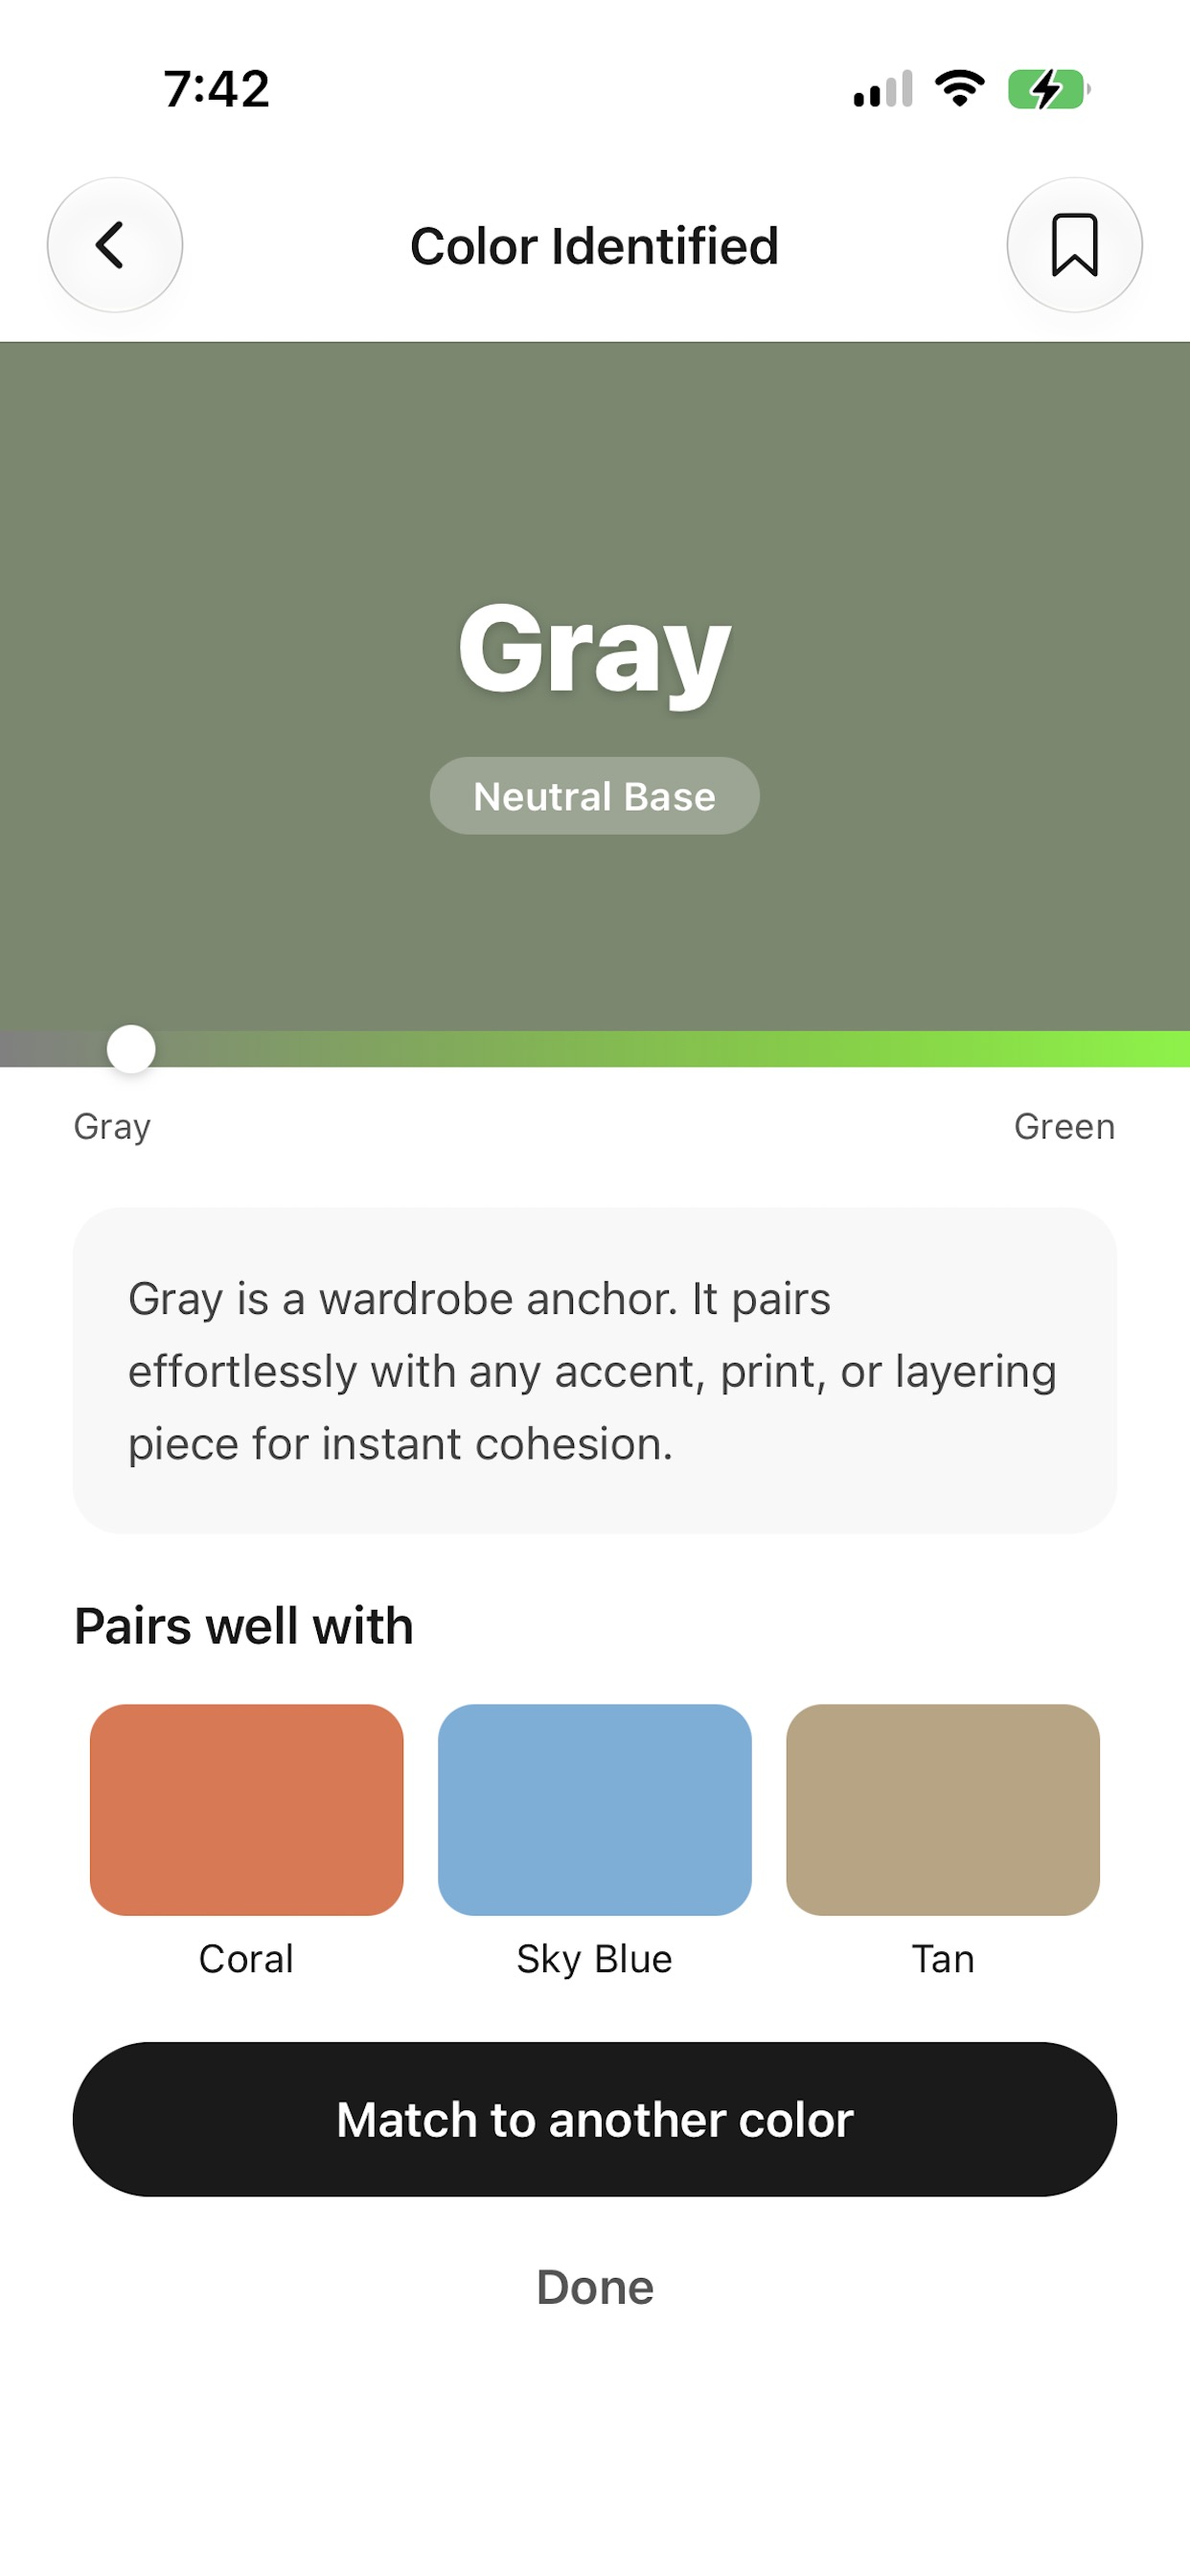
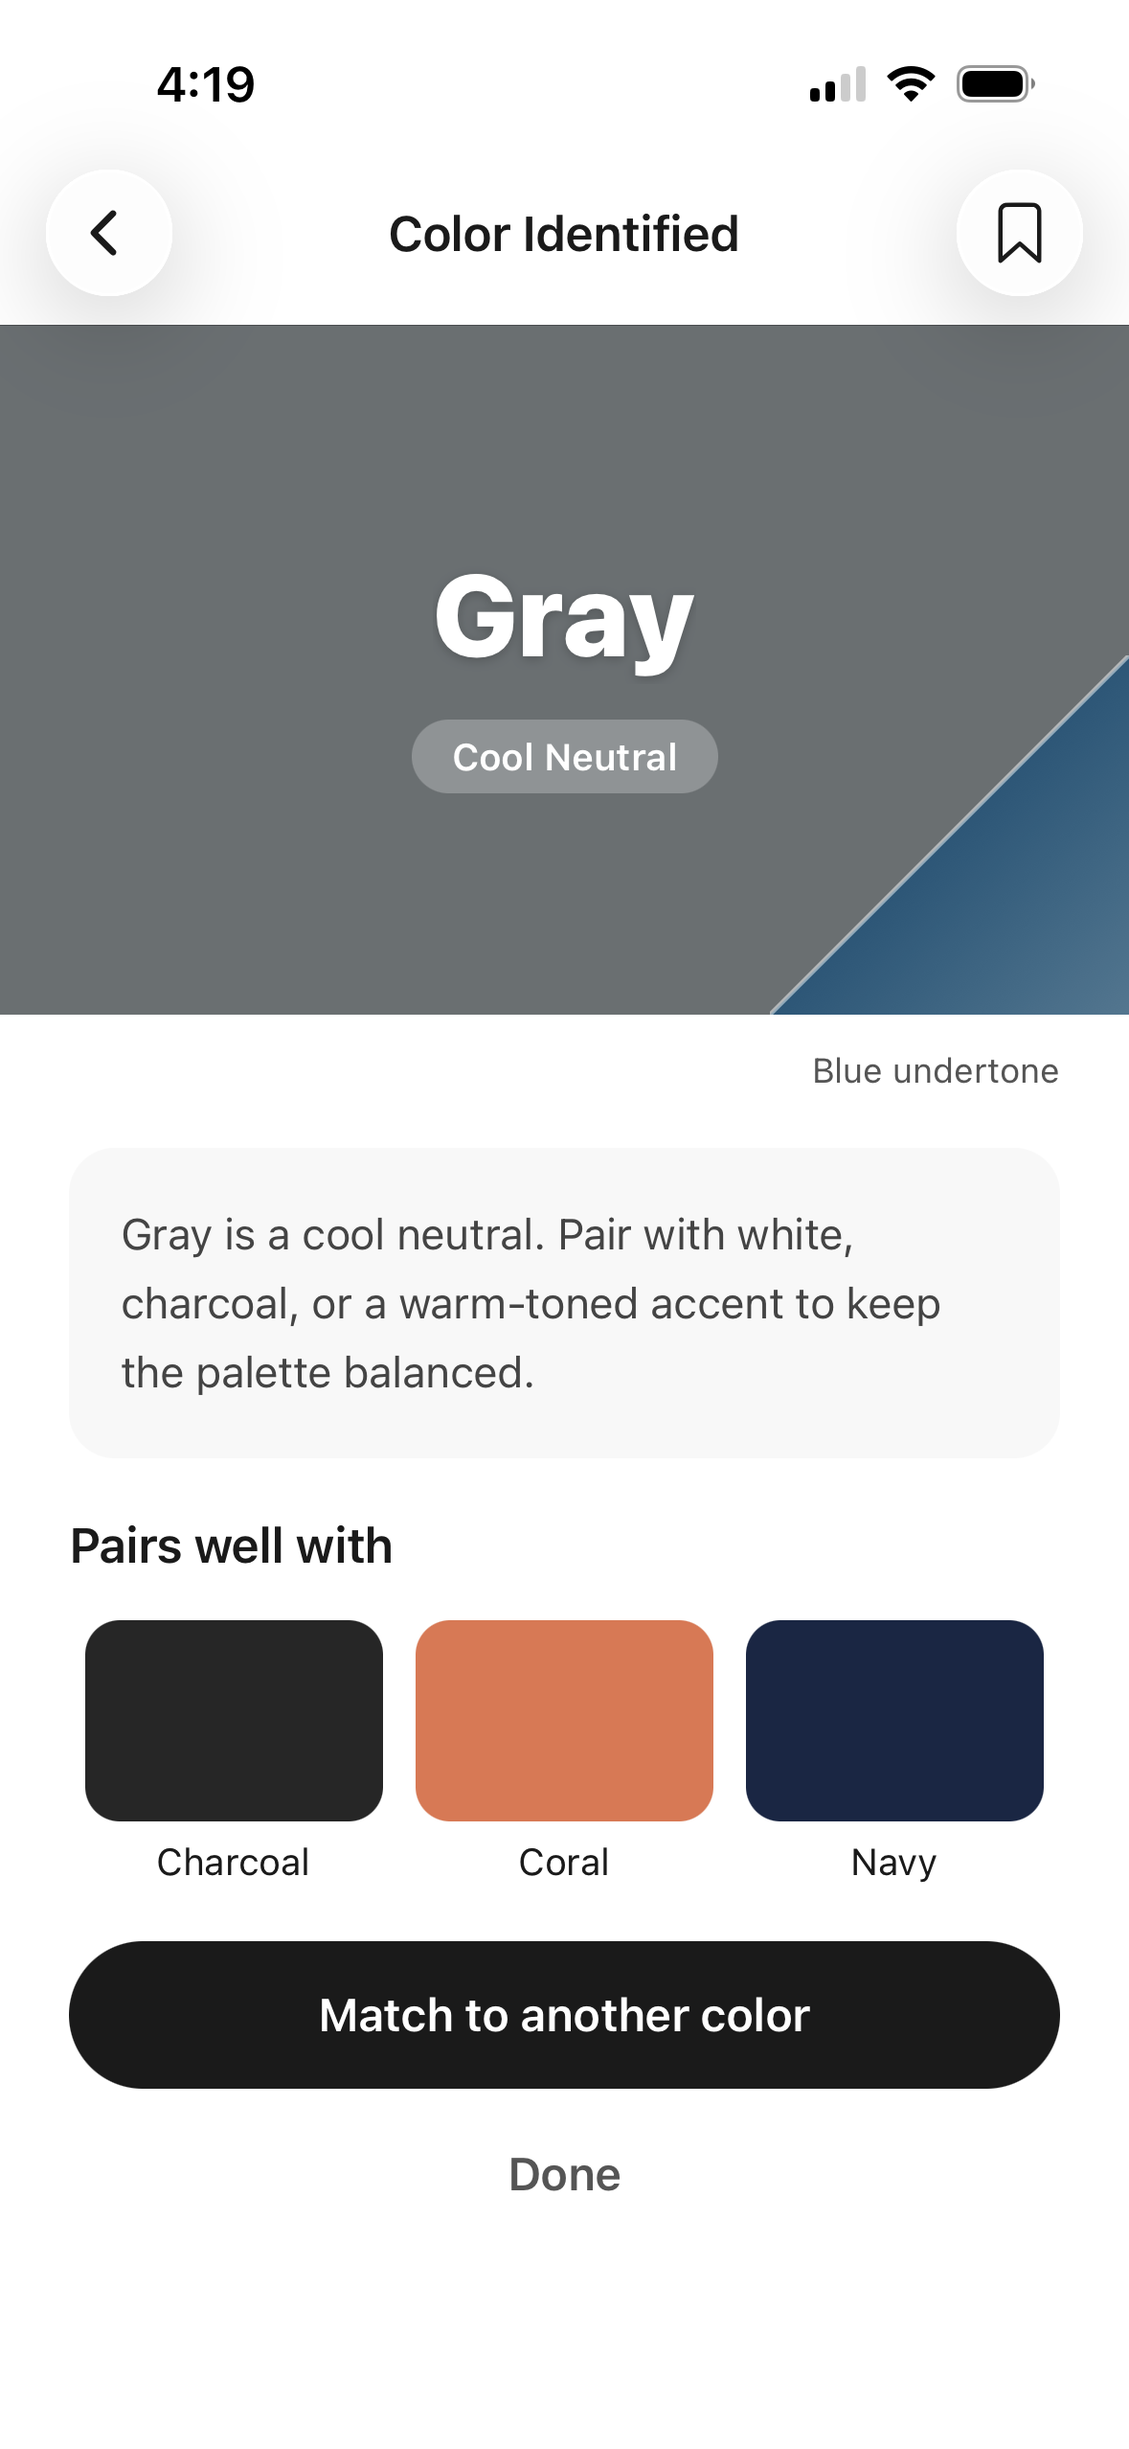
Update undertone reveal section

diff --git a/index.html b/index.html
@@ -273,9 +273,9 @@
         <div class="feature-spotlight-text">
           <h2>See beyond gray</h2>
           <p>
-            When a color reads as gray, the undertone spectrum bar shows exactly
-            where it falls between neutral and its true hue. Finally understand
-            the difference between a warm gray and a cool one.
+            When a color reads as gray, the undertone color shows exactly where
+            it falls between neutral and its true hue. Finally understand the
+            difference between a warm gray and a cool one.
           </p>
         </div>
       </div>
